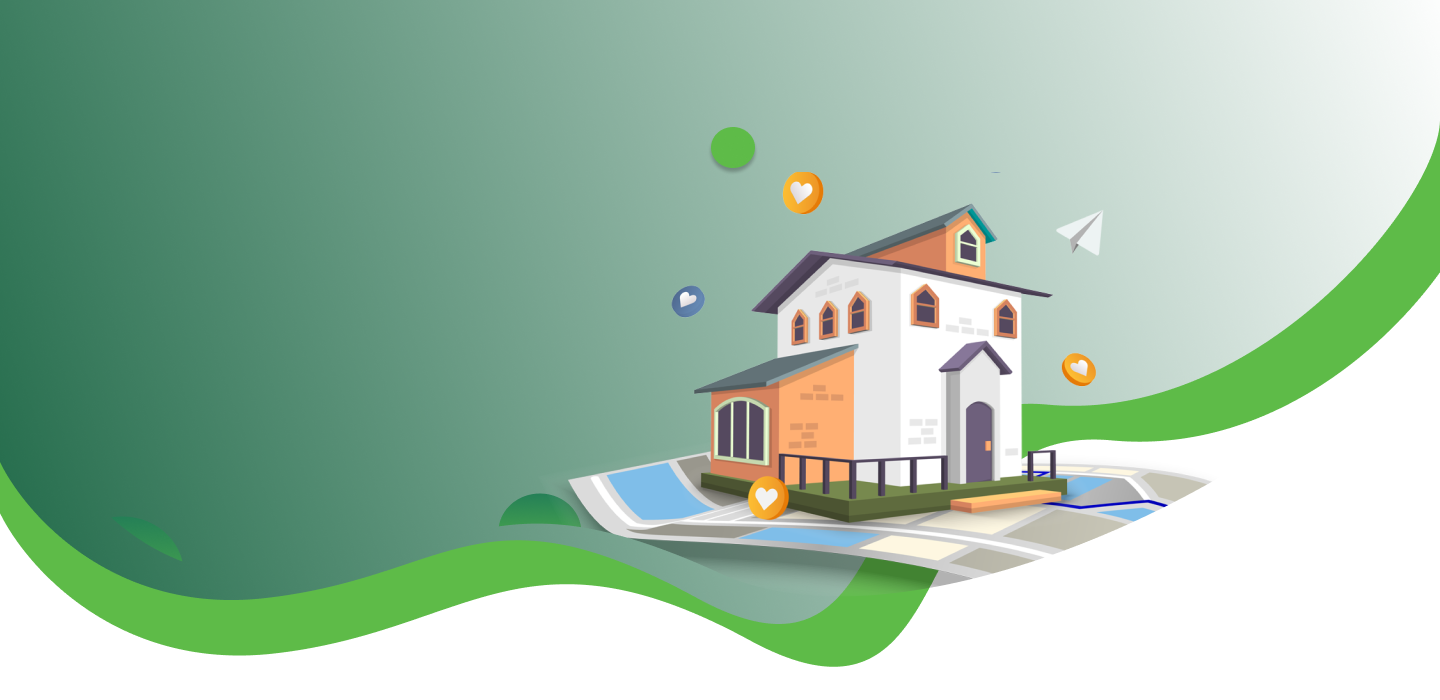
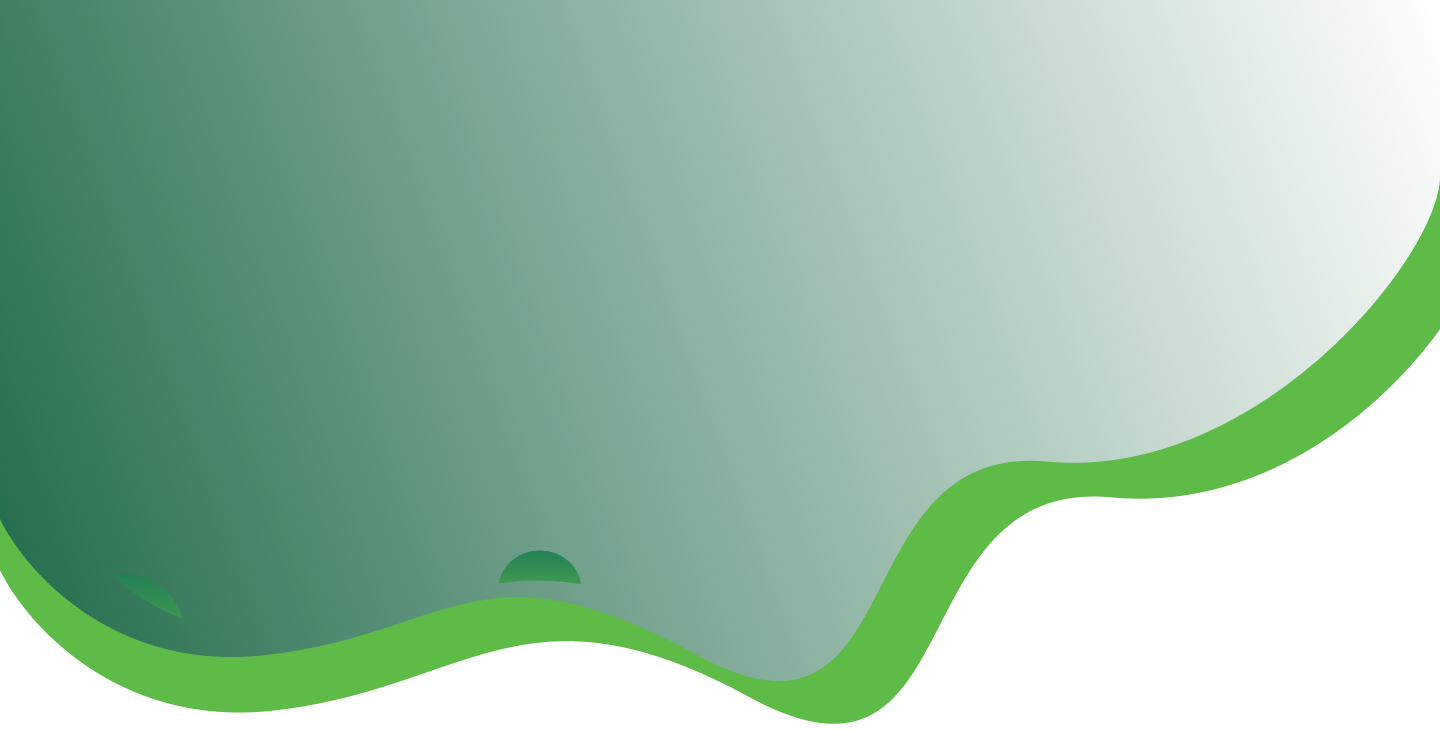
responsive done 12 may 2024

diff --git a/src/components/heroSection/index.jsx b/src/components/heroSection/index.jsx
@@ -7,18 +7,28 @@ function HeroSection() {
     <div className="hero__container">
       <div className="hero__overlay">
         <div className="hero__img__container">
-          <img src="/assets/img/mainBanner.png" className="hero__img" />
+          {/* <img src="/assets/img/mainBanner.png" className="hero__img" /> */}
         </div>
         <div className="hero__card ">
-          <h1 className="mb-3 text-white ">
-            Connecting People to Property and Prosperity
-          </h1>
-          <Link
-            className="btn-link hero__button fs-5 py-2 px-4 rounded-pill w-100"
-            href="/booking"
-          >
-            Book Now
-          </Link>
+          <div className="">
+            <h1 className="mb-3 text-white ">
+              Connecting People to Property and Prosperity
+            </h1>
+            <Link
+              className="btn-link hero__button fs-5 py-2 px-4 rounded-pill w-100"
+              href="/booking"
+            >
+              Book Now
+            </Link>
+          </div>
+          <Image
+            src="/assets/img/left-img.png"
+            alt=""
+            fill
+            quality={100}
+            priority
+            className="position-static"
+          />
         </div>
       </div>
     </div>

diff --git a/src/components/heroSection/index.css b/src/components/heroSection/index.css
@@ -1,7 +1,11 @@
 .hero__container {
-  height: 100vh;
-  width: 100vw;
+  /* height: 100vh; */
+  /* width: 100vw; */
   font-family: "Poppins", "sans-serif";
+  background-image: url("/assets/img/mainBanner.png");
+  background-size: cover;
+  background-repeat: no-repeat;
+  padding: 4rem 0;
 }
 
 .hero__overlay {
@@ -16,10 +20,13 @@
 .hero__card {
   color: white;
   /* border: 1px solid red; */
-  position: absolute;
+  /* position: absolute;
   top: 30ch;
-  left: 0;
+  left: 0; */
   padding: 20px;
+  display: flex;
+  justify-content: space-between;
+  align-items: center;
 }
 .hero__card h1 {
   font-size: xx-large;
@@ -27,13 +34,19 @@
 
 @media (max-width: 772px) {
   .hero__card {
-    width: 100%;
+    display: grid;
+  }
+  .hero__container {
+    padding: 8rem 0 4rem;
+  }
+  .hero__card {
+    /* width: 100%;
     text-align: center;
     top: 30ch;
 
     background: rgba(240, 106, 35, 0.3);
     box-shadow: 0 4px 30px rgba(0, 0, 0, 0.2);
-    backdrop-filter: blur(4px);
+    backdrop-filter: blur(4px); */
   }
 
   .hero__button {

diff --git a/src/app/blog/about-us/page.js b/src/app/blog/about-us/page.js
@@ -1,0 +1,24 @@
+import { getAboutApi } from "@/api/apiCall";
+export const dynamic = true;
+async function AboutUs() {
+  const detail = await getAboutApi();
+  console.log(detail, "detail");
+
+  return (
+    <>
+      <section className="">
+        <div className="container">
+          <div className="">
+            <div className="mt-3 bg-white p-3">
+              <div
+                dangerouslySetInnerHTML={{ __html: detail?.data?.aboutUs }}
+              ></div>
+            </div>
+          </div>
+        </div>
+      </section>
+    </>
+  );
+}
+
+export default AboutUs;

diff --git a/src/api/store/store.js b/src/api/store/store.js
@@ -160,7 +160,17 @@ export const useDataStore = create((set) => ({
   priorityMessage: {},
   fetchpriorityMessage: async (data) => {
     const res = await priorityMessageApi(data);
+    set({
+      OpenModal:
+        res?.data?.blogs?.length > 0 &&
+        res?.data?.careers?.length > 0 &&
+        res?.data?.newsEvents?.length > 0 &&
+        res?.data?.publications?.length > 0
+          ? true
+          : false,
+    });
     set({ priorityMessage: await res?.data });
+    // console.log(res?.data, "res?.data");
   },
 
   about: {},

diff --git a/src/components/menu/Menu.jsx b/src/components/menu/Menu.jsx
@@ -111,9 +111,6 @@ function Menu() {
                         ? "nav-link  dropdown-toggle active"
                         : "nav-link  dropdown-toggle"
                     }
-                    onClick={() => {
-                      handleClose();
-                    }}
                     href="#"
                     id="navbarDarkDropdownMenuLink"
                     role="button"

diff --git a/src/components/provider/Provider.jsx b/src/components/provider/Provider.jsx
@@ -3,8 +3,10 @@ import Menu from "../menu/Menu";
 import Footer from "../footer/Footer";
 import Bredthcred from "@/components/bredthcred/Bredthcred";
 import { ToastContainer } from "react-toastify";
+import { usePathname } from "next/navigation";
 
 function Provider(props) {
+  // const pathname = usePathname();
   return (
     <>
       <Menu />

diff --git a/src/app/globals.css b/src/app/globals.css
@@ -356,7 +356,8 @@ section .events .eventCard .details a:hover {
   height: 250px !important;
   object-fit: contain;
 }
-.navbar-nav .nav-link.btn-link:hover {
+.navbar-nav .nav-link.btn-link:hover,
+.navbar.navbar-expand-lg.navFixed.active .btn-link:hover {
   color: #fff !important;
 }
 .btn-link,

diff --git a/src/components/menu/style.css b/src/components/menu/style.css
@@ -138,3 +138,9 @@ ul.dropdown-menu.dropdown-menu-light.cole.show {
 .navFixed.active .navbar-nav .nav-link:hover {
   color: #ee6922 !important;
 }
+@media (max-width: 991.9px) {
+  .navbar-nav .nav-link.active,
+  .navbar-nav .nav-link:hover {
+    color: #f06a23 !important;
+  }
+}

diff --git a/src/app/page.js b/src/app/page.js
@@ -28,7 +28,7 @@ export default function Home() {
   const handleShow = () => {
     showModal(!show);
   };
-
+  // console.log(show, "showshowshowshow");
   const LikeUnlikeProperty = (val) => {
     LikeUnlikePropertyApi(val).then((res) => {
       toast.success(res?.message);

diff --git a/public/assets/css/style.css b/public/assets/css/style.css
@@ -340,7 +340,7 @@ input:focus {
 }
 .singleBoxBg {
   position: relative;
-  background-color: #fff;
+  /* background-color: #fff; */
   /* background: linear-gradient(
     86deg,
     rgba(242, 119, 33, 0.6587885154061625) 0%,
